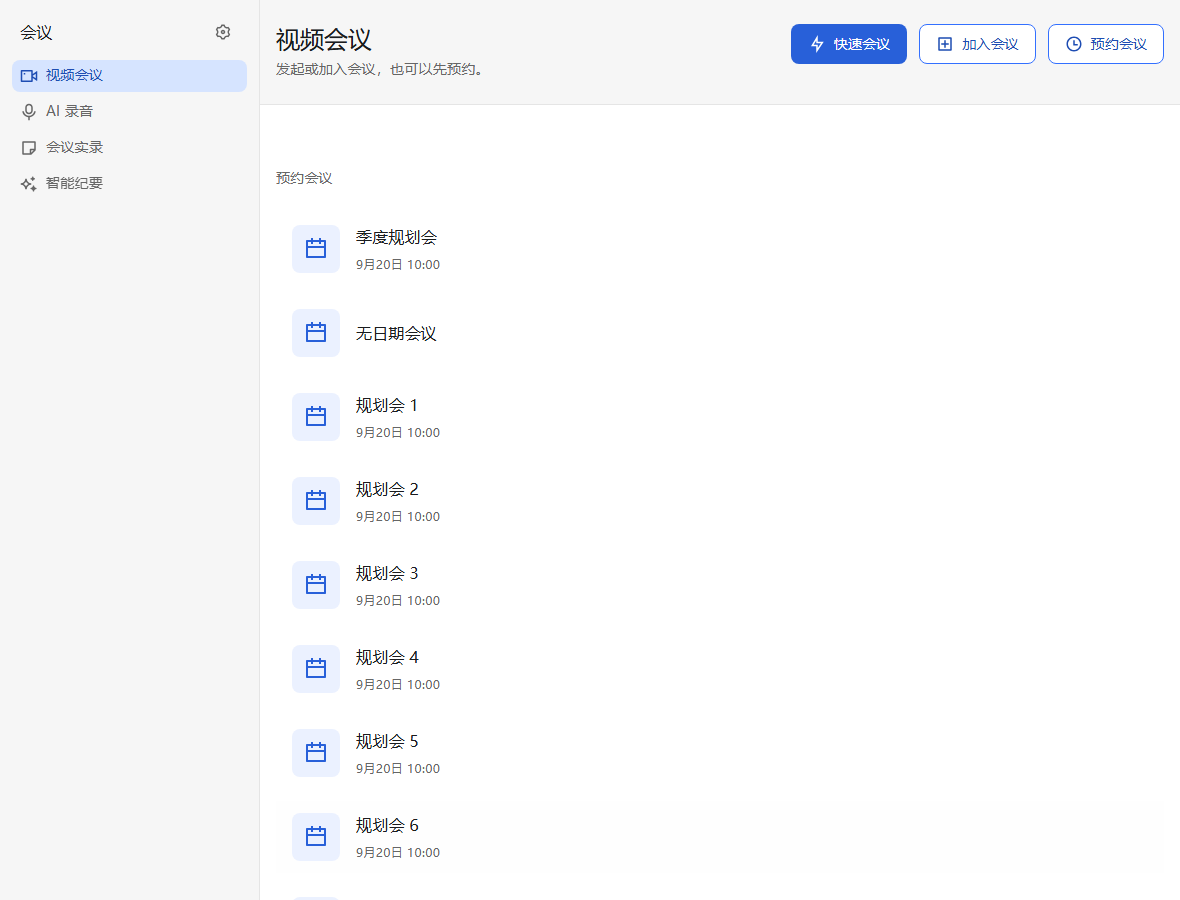
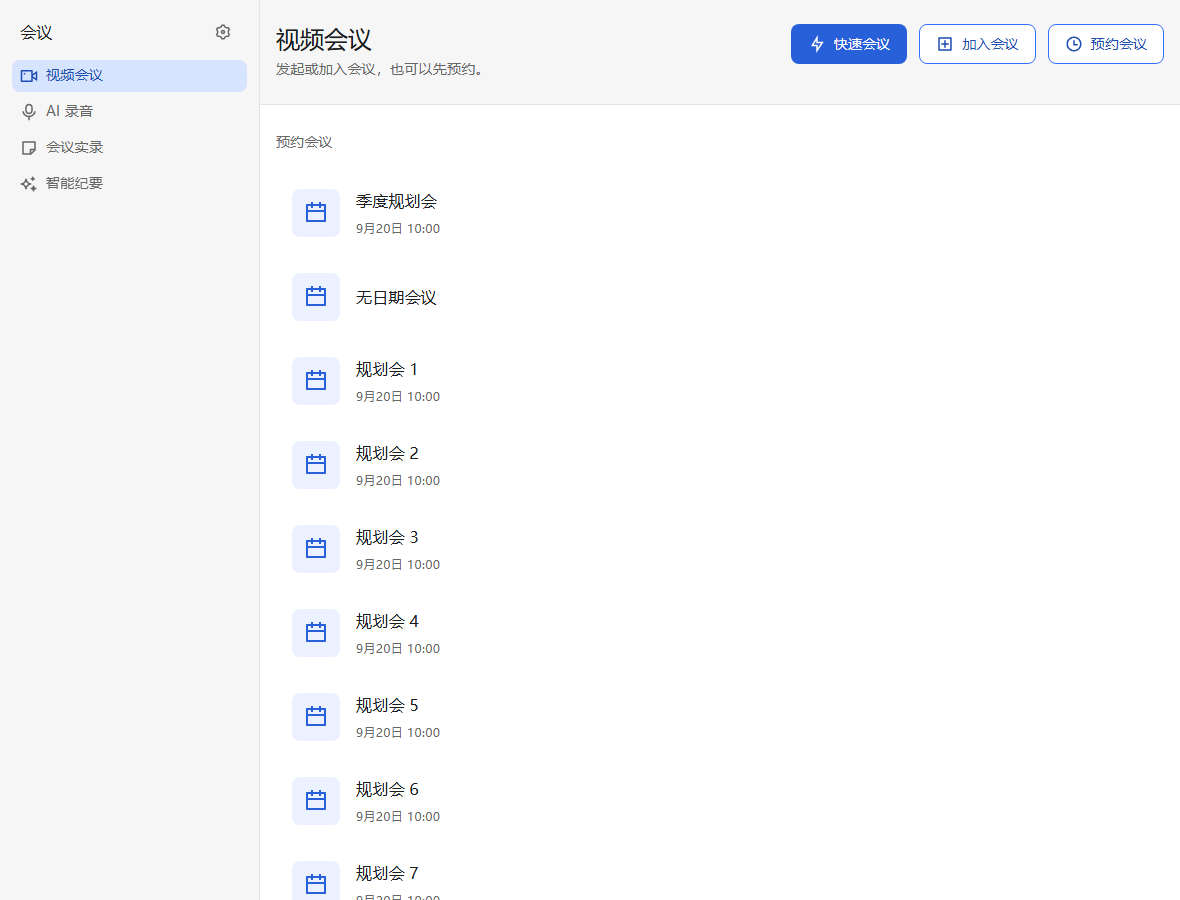
fix(meetings): drop the doubled section spacing on the video page
「预约会议」「历史会议」两节标题上方各有一大截空白:实测「预约会议」文字上沿
距固定区下沿 64px(滚动区上边距 16 + 节容器 marginTop 24 + 节标题自带
marginTop 24)—— 节间距被写了两遍,另外三个栏目页的首个小节标题只有 28px。

规则收成一条:节间距只由一层负责。

- libraryStyles 增加 sectionHeadingFlush(不带 marginTop 的节标题),
  给「外层容器已经排过节间距」的地方用;
- 视频会议页的两个列表(各自的 sectionStack 已经写了 marginTop: xl)改用
  这一档;单节的实录 / 纪要 / 录音页继续用 sectionHeading —— 那里标题自带的
  那一档就是唯一间距;
- 视频会议页列表区的 paddingTop 从 lg(16) 收到 xs(4),与另外三个栏目页同档:
  首个小节标题一律在固定区下沿下方 28px,节与节之间 24px。

结果:首节标题 64px → 28px,第二节 48px → 24px。走查新增三条断言比的是规则
而不是像素:两节的 h3 marginTop 必须是 0px、容器必须是 24px、首节文字上沿距
固定区下沿 28±2px —— 以后谁再叠一层会直接红。

验证:vitest 160 文件 1033 条、lint / prettier / color / foundation /
tsc / build 全绿;check-meeting-pages-ui.mjs 通过,截图已更新。

diff --git a/src/frontend/src/features/meetings/components/RecentMeetingsList.tsx b/src/frontend/src/features/meetings/components/RecentMeetingsList.tsx
@@ -17,7 +17,7 @@ import {
   rowHeadingOneLine,
   rowIconTile,
   rowMetaBlock,
-  sectionHeading,
+  sectionHeadingFlush,
 } from './libraryStyles'
 
 // The overview returns the twenty latest actual sessions.
@@ -106,7 +106,7 @@ export const RecentMeetingsList = ({
   if (isLoading || isError)
     return (
       <section className={sectionStack}>
-        <h3 className={sectionHeading}>{t('home.recentTitle')}</h3>
+        <h3 className={sectionHeadingFlush}>{t('home.recentTitle')}</h3>
         <StateHint
           state={isError ? 'error' : 'loading'}
           action={
@@ -129,7 +129,7 @@ export const RecentMeetingsList = ({
     if (!showEmpty) return null
     return (
       <div className={sectionStack}>
-        <h3 className={sectionHeading}>{t('home.recentTitle')}</h3>
+        <h3 className={sectionHeadingFlush}>{t('home.recentTitle')}</h3>
         <PageState
           density="compact"
           surface="card"
@@ -150,7 +150,7 @@ export const RecentMeetingsList = ({
 
   return (
     <div className={sectionStack}>
-      <h3 className={sectionHeading}>{t('home.recentTitle')}</h3>
+      <h3 className={sectionHeadingFlush}>{t('home.recentTitle')}</h3>
       <ul className={listStack}>
         {visible.map((m) => {
           const label = m.name || t('home.untitled')

diff --git a/src/frontend/src/features/meetings/components/libraryStyles.ts b/src/frontend/src/features/meetings/components/libraryStyles.ts
@@ -208,6 +208,16 @@ export const sectionHeading = cx(
 )
 
 /**
+ * 区块标题的**不带自身外边距**版本:给「外层容器已经用 `marginTop` 排过节间距」的
+ * 地方用(视频会议页的两个列表各自包在 `sectionStack` 里)。
+ *
+ * 两处各顶一档 24px 时,标题上方会多出一倍空白 —— 实测「预约会议」上沿距固定区下沿
+ * 64px,而另外三个栏目页的首个小节标题是 28px。这里的规则是:**节间距只由一层负责**
+ * —— 容器负责间距的地方,标题就不再自带。
+ */
+export const sectionHeadingFlush = cx(groupLabel, css({ marginBottom: 'md' }))
+
+/**
  * 一级页的**内容底**:页壳仍是 `surface.canvas`(钉住的头部因此保持浅灰),滚动区
  * 铺白。这条规则来自 App 的页面层级规范
  * (`we-meet-android/docs/page-backgrounds.md` §1):一级页面 = 顶部固定区域浅灰 +

diff --git a/src/frontend/src/features/meetings/components/ScheduledMeetingsList.tsx b/src/frontend/src/features/meetings/components/ScheduledMeetingsList.tsx
@@ -16,7 +16,7 @@ import {
   rowHeadingOneLine,
   rowIconTile,
   rowMetaBlock,
-  sectionHeading,
+  sectionHeadingFlush,
 } from './libraryStyles'
 
 /** 一节整体的竖向堆叠(标题 + 列表 / 空态 / 加载)。 */
@@ -132,7 +132,9 @@ export const ScheduledMeetingsList = ({
    * 已经有同一颗按钮,而那一行永远在屏上 —— 不需要靠标题行兜住可见性,同一屏
    * 出现两颗同款次按钮反而让人犹豫点哪个。预约出来的会议仍然出现在这一节里。
    */
-  const header = (title: string) => <h3 className={sectionHeading}>{title}</h3>
+  const header = (title: string) => (
+    <h3 className={sectionHeadingFlush}>{title}</h3>
+  )
 
   if (!enabled) return null
   if (isLoading || isError)

diff --git a/src/frontend/src/features/home/routes/Home.tsx b/src/frontend/src/features/home/routes/Home.tsx
@@ -55,7 +55,11 @@ const canvasShell = pageShell('canvas')
 /**
  * 列表区:唯一的滚动区,内容铺白(一级页规则,见 libraryStyles.contentSurface)。
  */
-const listRegion = cx(scrollRegion, contentSurface, css({ paddingTop: 'lg' }))
+/**
+ * 列表滚动区。顶部内边距与另外三个栏目页同档(`xs`):首个小节标题到固定区下沿
+ * 一律 28px(4 + 标题自带的 24),四个页面并排切栏目时标题不会上下跳。
+ */
+const listRegion = cx(scrollRegion, contentSurface, css({ paddingTop: 'xs' }))
 
 const Columns = ({ children }: { children?: ReactNode }) => {
   return (

diff --git a/CHANGELOG.md b/CHANGELOG.md
@@ -117,6 +117,8 @@ and this project adheres to
 - ♻(frontend) put the record button first on the AI recording page and make it
   the primary action
 - ♻(frontend) give the import button a downward arrow
+- 🩹(frontend) stop the video meeting sections from spacing their headings
+  twice, which left a blank band above the lists
 
 ## [1.16.0] - 2026-05-13
 
